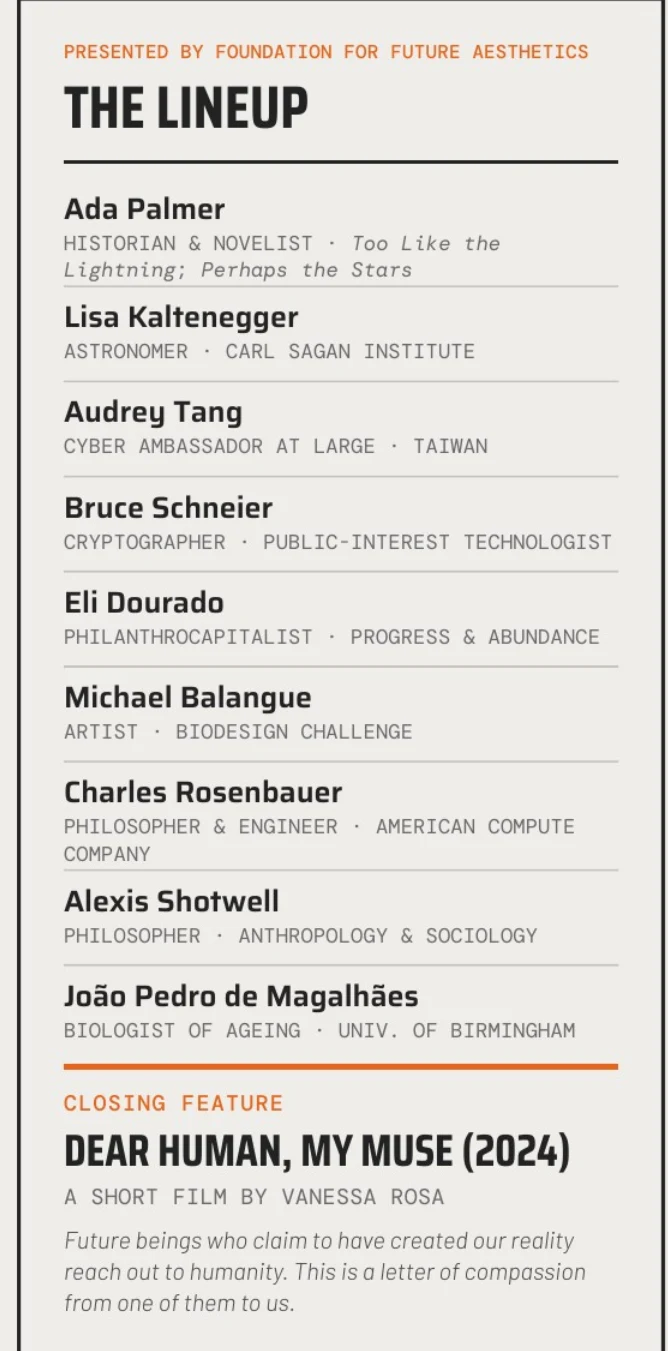
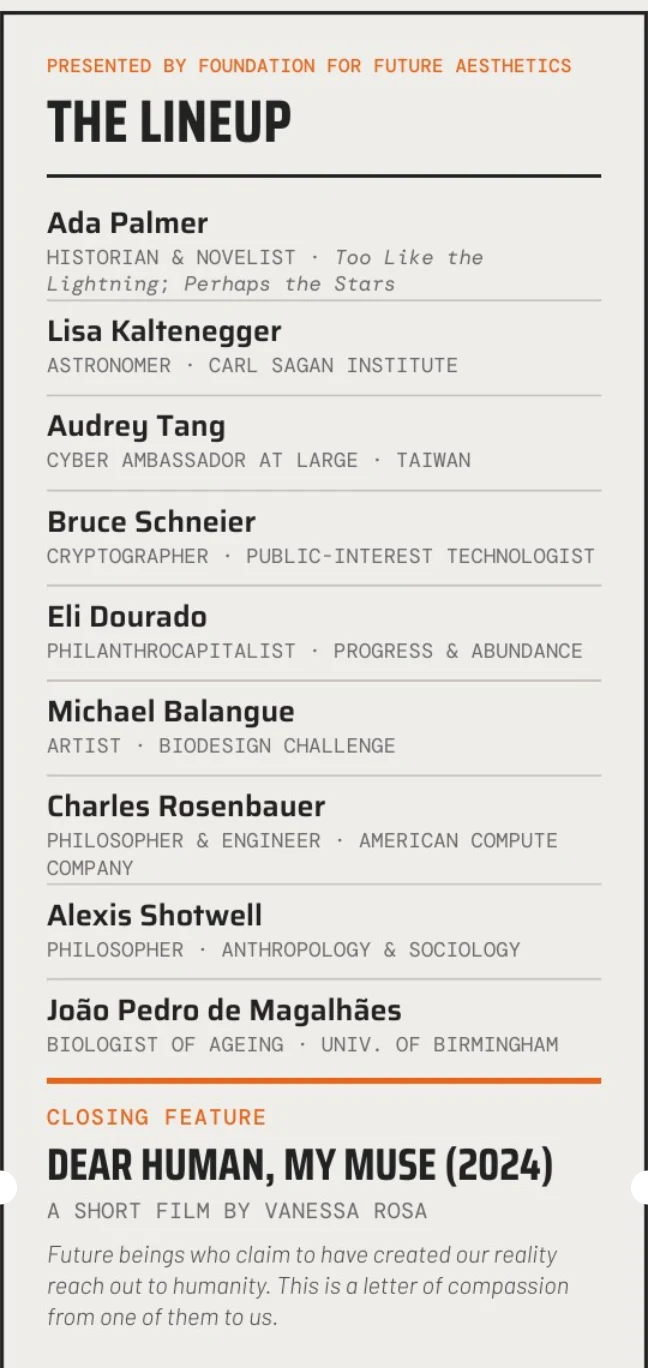
OURS Visions: die-cut ticket with card-stock thickness, straight linear spin
Both faces are recut precisely at the printed black border with the tear-line notch semicircles punched through as transparency - a real die-cut, previewed against the site background. The 15-degree lean and the per-face easing come out (plain 12s linear spin on the vertical axis); a 6px cuboid of edge faces gives it the read of thick card stock. Bob and hover-pause stay.

Changed region(s): [[0.0, 0.0, 1.0, 1.0], [0.5556, 0.5907, 0.8642, 0.6218], [0.6173, 0.3109, 0.7407, 0.342]]

diff --git a/components/ours/VisionsSection.tsx b/components/ours/VisionsSection.tsx
@@ -15,7 +15,8 @@ import { OURS } from './tokens';
 const VIDEO_ID = '4LgqHTmZg1M';
 
 const TICKET_W = 210;
-const TICKET_H = Math.round(TICKET_W * (1351 / 668)); // 425 — the print's real aspect
+const TICKET_H = Math.round(TICKET_W * (1368 / 648)); // 443 — the die-cut's real aspect
+const TICKET_D = 6; // thickness — reads as heavy card stock
 
 const LINEUP: { name: string; detail: string }[] = [
   { name: 'Ada Palmer', detail: 'Historian & Novelist · Too Like the Lightning; Perhaps the Stars' },
@@ -53,13 +54,10 @@ export function VisionsSection() {
           </p>
         </div>
 
-        {/* The admission ticket. Turn order, outermost in:
-            bob (weight — a slow vertical drift) → spin (rotateY about
-            the true screen-vertical axis, easing through each half-turn
-            so it lingers on the faces and sweeps through edge-on like a
-            sheet with mass) → tilt (the card leans 15° left inside the
-            spin, so the lean rides the rotation like a real held
-            ticket). Hovering anywhere over it pauses the motion. */}
+        {/* The admission ticket, die-cut at its printed border (tear
+            notches included), turning upright on the vertical axis over
+            a slow bob. Edge faces give it the thickness of real card
+            stock. Hovering anywhere over it pauses the motion. */}
         <div
           className="ours-ticket hidden items-center justify-center self-stretch md:flex"
           style={{ perspective: 1800 }}
@@ -69,34 +67,53 @@ export function VisionsSection() {
               className="ours-ticket-spin relative"
               style={{ width: TICKET_W, height: TICKET_H, transformStyle: 'preserve-3d' }}
             >
-              <div
-                className="absolute inset-0"
-                style={{ transform: 'rotateZ(-15deg)', transformStyle: 'preserve-3d' }}
-              >
-                {/* eslint-disable-next-line @next/next/no-img-element */}
-                <img
-                  src="/images/ours/visions-ticket-front.webp"
-                  alt="Admission ticket N° 001 for Visions of the Future — the video installation, hosted by Ada Palmer."
-                  className="absolute inset-0 h-full w-full rounded-lg"
-                  style={{
-                    backfaceVisibility: 'hidden',
-                    transform: 'translateZ(1px)',
-                    boxShadow: '0 26px 50px -18px rgba(0,0,0,0.45)',
-                  }}
-                />
-                {/* eslint-disable-next-line @next/next/no-img-element */}
-                <img
-                  src="/images/ours/visions-ticket-back.webp"
-                  alt=""
+              {/* eslint-disable-next-line @next/next/no-img-element */}
+              <img
+                src="/images/ours/visions-ticket-front.webp"
+                alt="Admission ticket N° 001 for Visions of the Future — the video installation, hosted by Ada Palmer."
+                className="absolute inset-0 h-full w-full"
+                style={{
+                  backfaceVisibility: 'hidden',
+                  transform: `translateZ(${TICKET_D / 2}px)`,
+                  boxShadow: '0 26px 50px -18px rgba(0,0,0,0.45)',
+                }}
+              />
+              {/* eslint-disable-next-line @next/next/no-img-element */}
+              <img
+                src="/images/ours/visions-ticket-back.webp"
+                alt=""
+                aria-hidden
+                className="absolute inset-0 h-full w-full"
+                style={{
+                  backfaceVisibility: 'hidden',
+                  transform: `rotateY(180deg) translateZ(${TICKET_D / 2}px)`,
+                  boxShadow: '0 26px 50px -18px rgba(0,0,0,0.45)',
+                }}
+              />
+              {/* card-stock edges */}
+              {(
+                [
+                  { w: TICKET_D, h: '100%', t: `rotateY(-90deg) translateZ(${TICKET_W / 2}px)`, bg: '#e6e3dc' },
+                  { w: TICKET_D, h: '100%', t: `rotateY(90deg) translateZ(${TICKET_W / 2}px)`, bg: '#e6e3dc' },
+                  { w: '100%', h: TICKET_D, t: `rotateX(90deg) translateZ(${TICKET_H / 2}px)`, bg: '#efede7' },
+                  { w: '100%', h: TICKET_D, t: `rotateX(-90deg) translateZ(${TICKET_H / 2}px)`, bg: '#efede7' },
+                ] as const
+              ).map((e, i) => (
+                <span
+                  key={i}
                   aria-hidden
-                  className="absolute inset-0 h-full w-full rounded-lg"
                   style={{
+                    position: 'absolute',
+                    left: '50%',
+                    top: '50%',
+                    width: e.w,
+                    height: e.h,
+                    transform: `translate(-50%, -50%) ${e.t}`,
+                    background: e.bg,
                     backfaceVisibility: 'hidden',
-                    transform: 'rotateY(180deg) translateZ(1px)',
-                    boxShadow: '0 26px 50px -18px rgba(0,0,0,0.45)',
                   }}
                 />
-              </div>
+              ))}
             </div>
           </div>
         </div>
@@ -189,11 +206,8 @@ export function VisionsSection() {
             transform: rotateY(360deg);
           }
         }
-        /* The ease-in-out runs per half-turn: the card settles on each
-           face and carries momentum through the edge-on moments —
-           paper with weight, not a rotisserie. */
         .ours-ticket-spin {
-          animation: ours-ticket-spin 12s cubic-bezier(0.45, 0.05, 0.55, 0.95) infinite;
+          animation: ours-ticket-spin 12s linear infinite;
         }
         @keyframes ours-ticket-bob {
           from {
